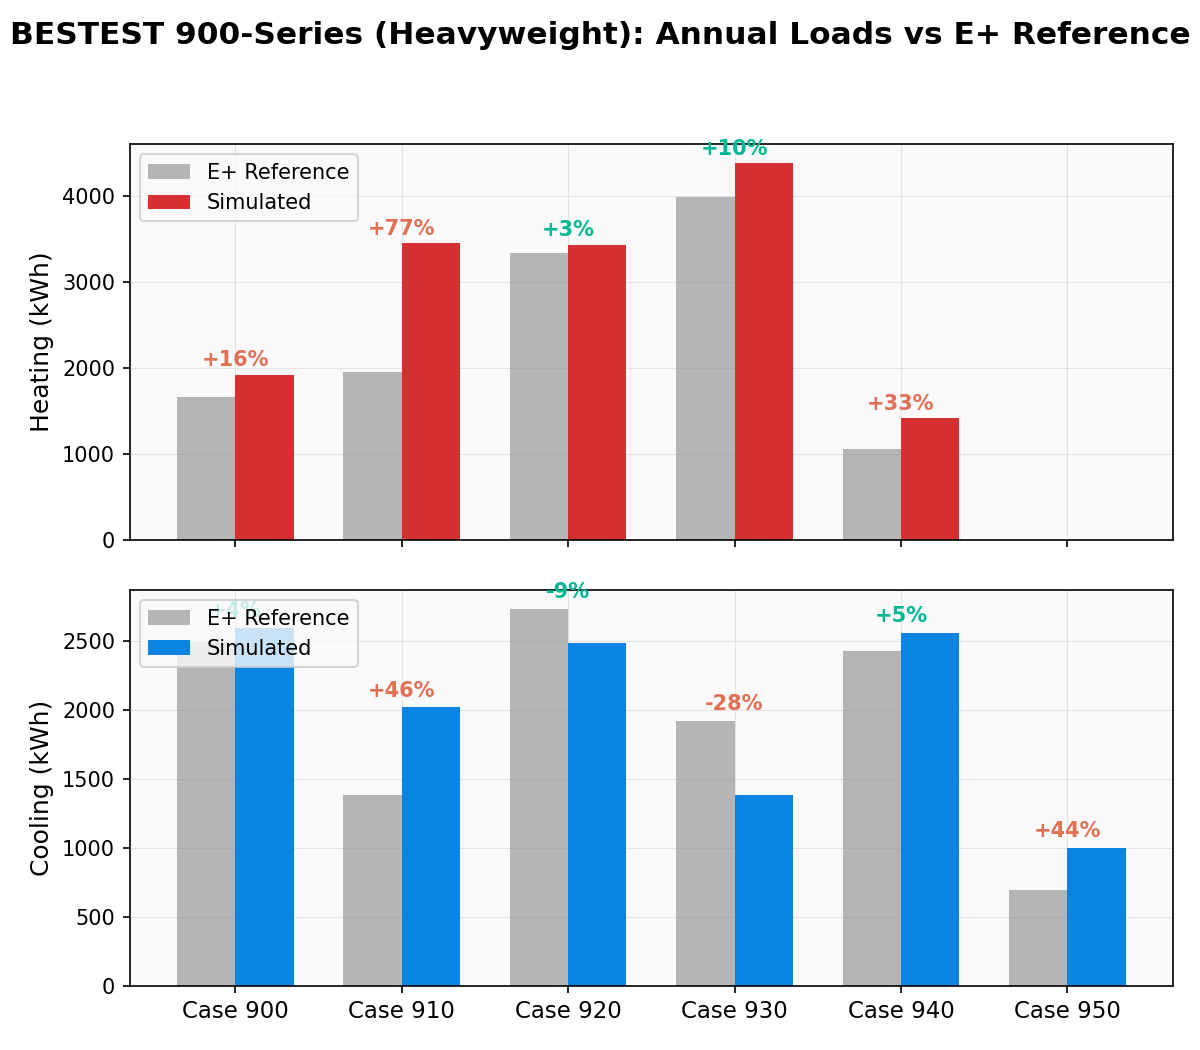
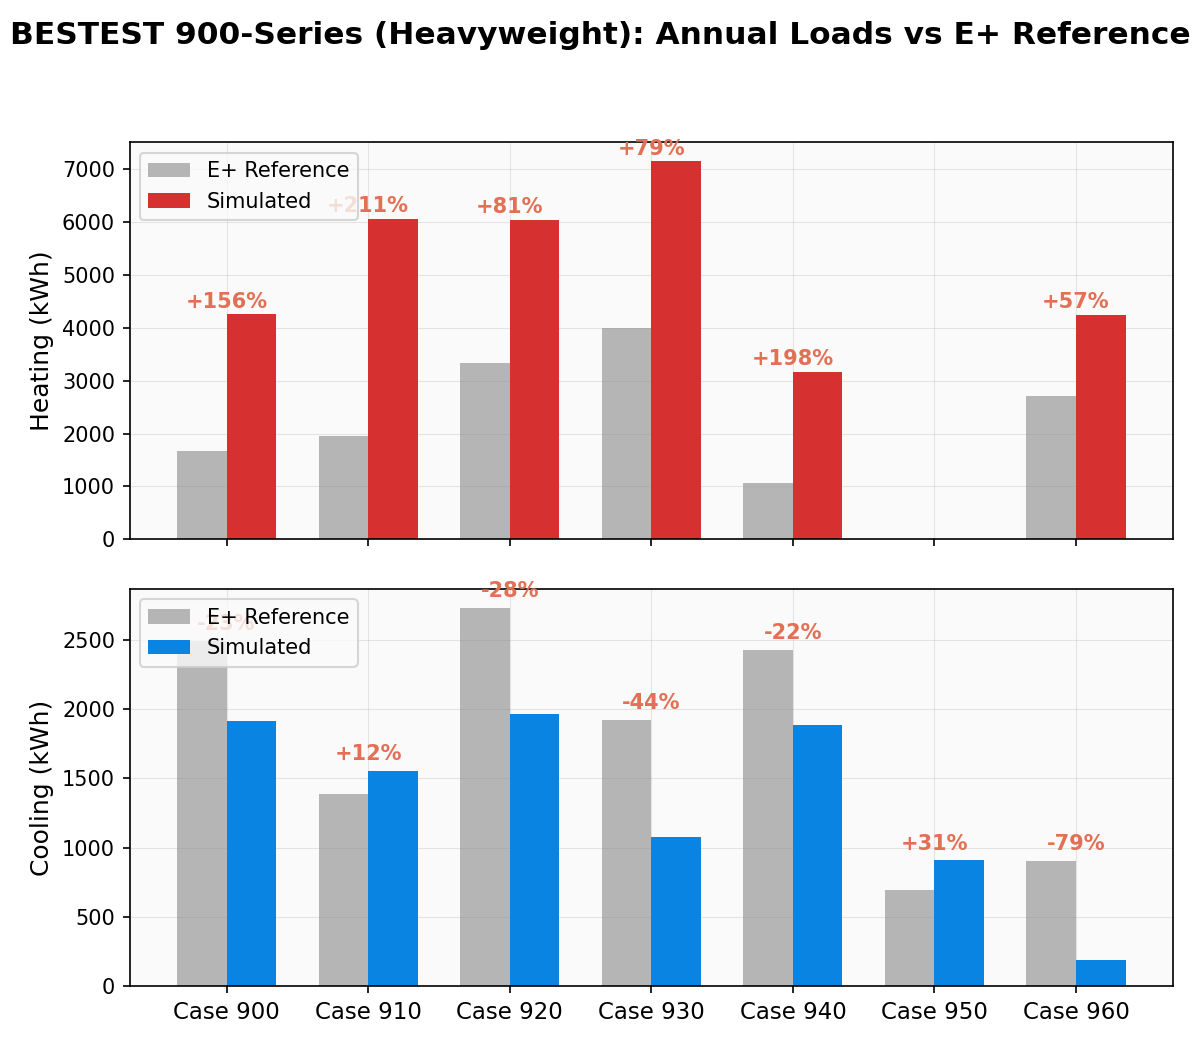
Add Case 960 to BESTEST suite plots

diff --git a/examples/bestest_energy_suite/plot_results.py b/examples/bestest_energy_suite/plot_results.py
@@ -381,7 +381,7 @@ def main():
     print(f"Read {len(rows)} rows from {csv_path}")
 
     cases_600 = ["600", "610", "620", "630", "640", "650"]
-    cases_900 = ["900", "910", "920", "930", "940", "950"]
+    cases_900 = ["900", "910", "920", "930", "940", "950", "960"]
     cases_ff = ["600FF", "650FF", "900FF", "950FF"]
 
     # 1-2. Annual loads by series (2-panel each)
@@ -402,7 +402,7 @@ def main():
 
     # 6-7. Monthly profiles (cases with and without reference)
     for case in ["600", "900", "610", "620", "630", "640", "650",
-                 "910", "920", "930", "940", "950"]:
+                 "910", "920", "930", "940", "950", "960"]:
         plot_monthly(rows, case, out_dir / f"bestest_{case}_monthly.png")
 
     print("Done.")
